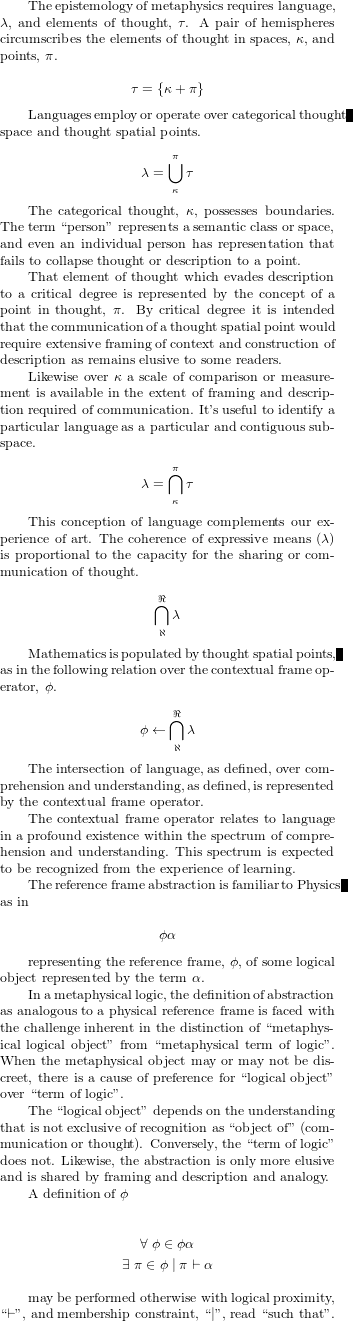
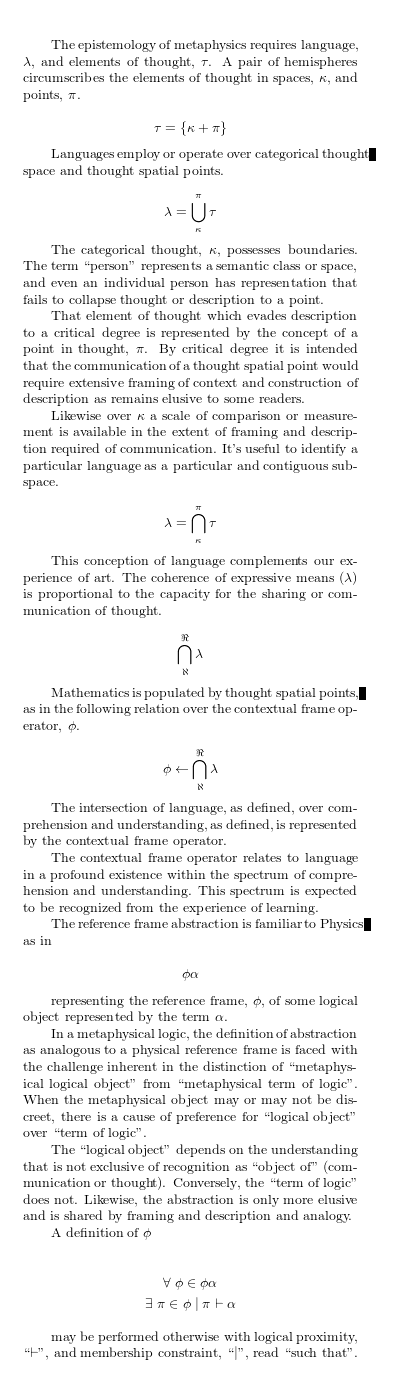
syntelos metaphysics of language

diff --git a/journal-20170217-0.tex b/journal-20170217-0.tex
@@ -1,5 +1,106 @@
 \input preamble
 
+{\global\let\reviews = \rightleftharpoons}
+{\global\let\accepts = \leftarrow}
+{\global\let\rejects = \rightarrow}
+{\global\let\rellang         = \lambda}
+{\global\let\relouter        = \Re}
+{\global\let\relinner        = \aleph}
+{\global\let\relterm         = \tau}
+{\global\let\termclass       = \kappa}
+{\global\let\termpoint       = \pi}
+{\global\let\termouter       = \alpha}
+{\global\let\terminner       = \beta}
 
+The epistemology of metaphysics requires language, $\rellang$, and
+elements of thought, $\relterm$.  A pair of hemispheres circumscribes
+the elements of thought in spaces, $\termclass$, and points,
+$\termpoint$.
+
+$$
+ \relterm = \{ \termclass + \termpoint \}
+$$
+
+Languages employ or operate over categorical thought space and thought
+spatial points.
+
+$$
+ \rellang = \bigcup_{\termclass}^{\termpoint} \relterm
+$$
+
+The categorical thought, $\termclass$, possesses boundaries.  The term
+``person'' represents a semantic class or space, and even an
+individual person has representation that fails to collapse thought or
+description to a point.
+
+That element of thought which evades description to a critical degree
+is represented by the concept of a point in thought, $\termpoint$.  By
+critical degree it is intended that the communication of a thought
+spatial point would require extensive framing of context and
+construction of description as remains elusive to some readers.
+
+Likewise over $\termclass$ a scale of comparison or measurement is
+available in the extent of framing and description required of
+communication.  It's useful to identify a particular language as a
+particular and contiguous subspace.
+
+$$
+ \rellang = \bigcap_{\termclass}^{\termpoint} \relterm 
+$$
+
+This conception of language complements our experience of art.  The
+coherence of expressive means ($\rellang$) is proportional to the
+capacity for the sharing or communication of thought.
+
+$$
+ \bigcap_{\relinner}^{\relouter} \rellang
+$$
+
+Mathematics is populated by thought spatial points, as in the
+following relation over the contextual frame operator, $\phi$.
+
+$$
+ \phi \accepts \bigcap_{\relinner}^{\relouter} \rellang
+$$
+
+The intersection of language, as defined, over comprehension and
+understanding, as defined, is represented by the contextual frame
+operator.  
+
+The contextual frame operator relates to language in a profound
+existence within the spectrum of comprehension and understanding.
+This spectrum is expected to be recognized from the experience of
+learning.  
+
+The reference frame abstraction is familiar to Physics as
+in
+
+$$
+ \phi\alpha
+$$
+
+representing the reference frame, $\phi$, of some logical object
+represented by the term $\alpha$.  
+
+In a metaphysical logic, the definition of abstraction as analogous to
+a physical reference frame is faced with the challenge inherent in the
+distinction of ``metaphysical logical object'' from ``metaphysical
+term of logic''.  When the metaphysical object may or may not be
+discreet, there is a cause of preference for ``logical object'' over
+``term of logic''.  
+
+The ``logical object'' depends on the understanding that is not
+exclusive of recognition as ``object of'' (communication or thought).
+Conversely, the ``term of logic'' does not.  Likewise, the abstraction
+is only more elusive and is shared by framing and description and
+analogy.
+
+A definition of $\phi$ 
+
+$$\displaylines{ \forall\ \phi \in \phi\alpha \cr \exists\ \pi \in \phi \mid \pi \vdash \alpha}
+$$
+
+may be performed otherwise with logical proximity, ``$\vdash$'', and
+membership constraint, ``$\mid$'', read ``such that''.
 
 \bye
